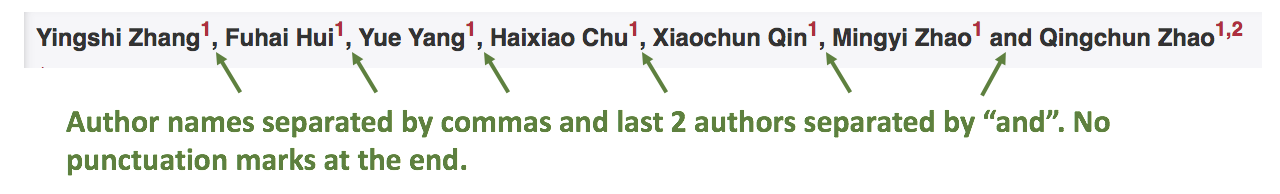
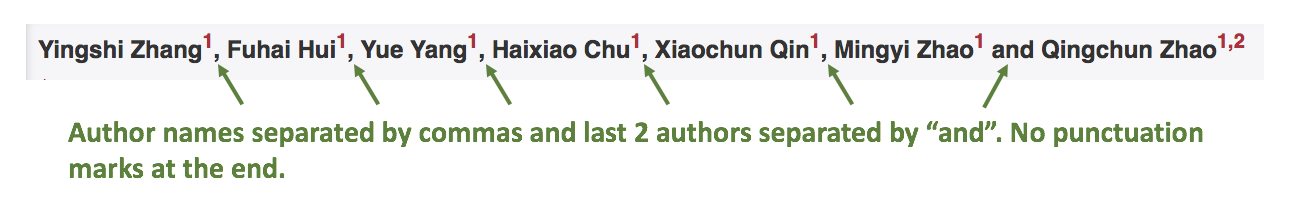
sdf

diff --git a/front matter.rst b/front matter.rst
@@ -21,7 +21,7 @@ For other Latin terms and gene names either italics or plain text is acceptable.
 
 .. image:: /_static/html_author_list_separ.png
    :alt: Author list separators
-   :scale: 45%
+   :scale: 50%
 
 
 2.3. Check the format of the author name. 
